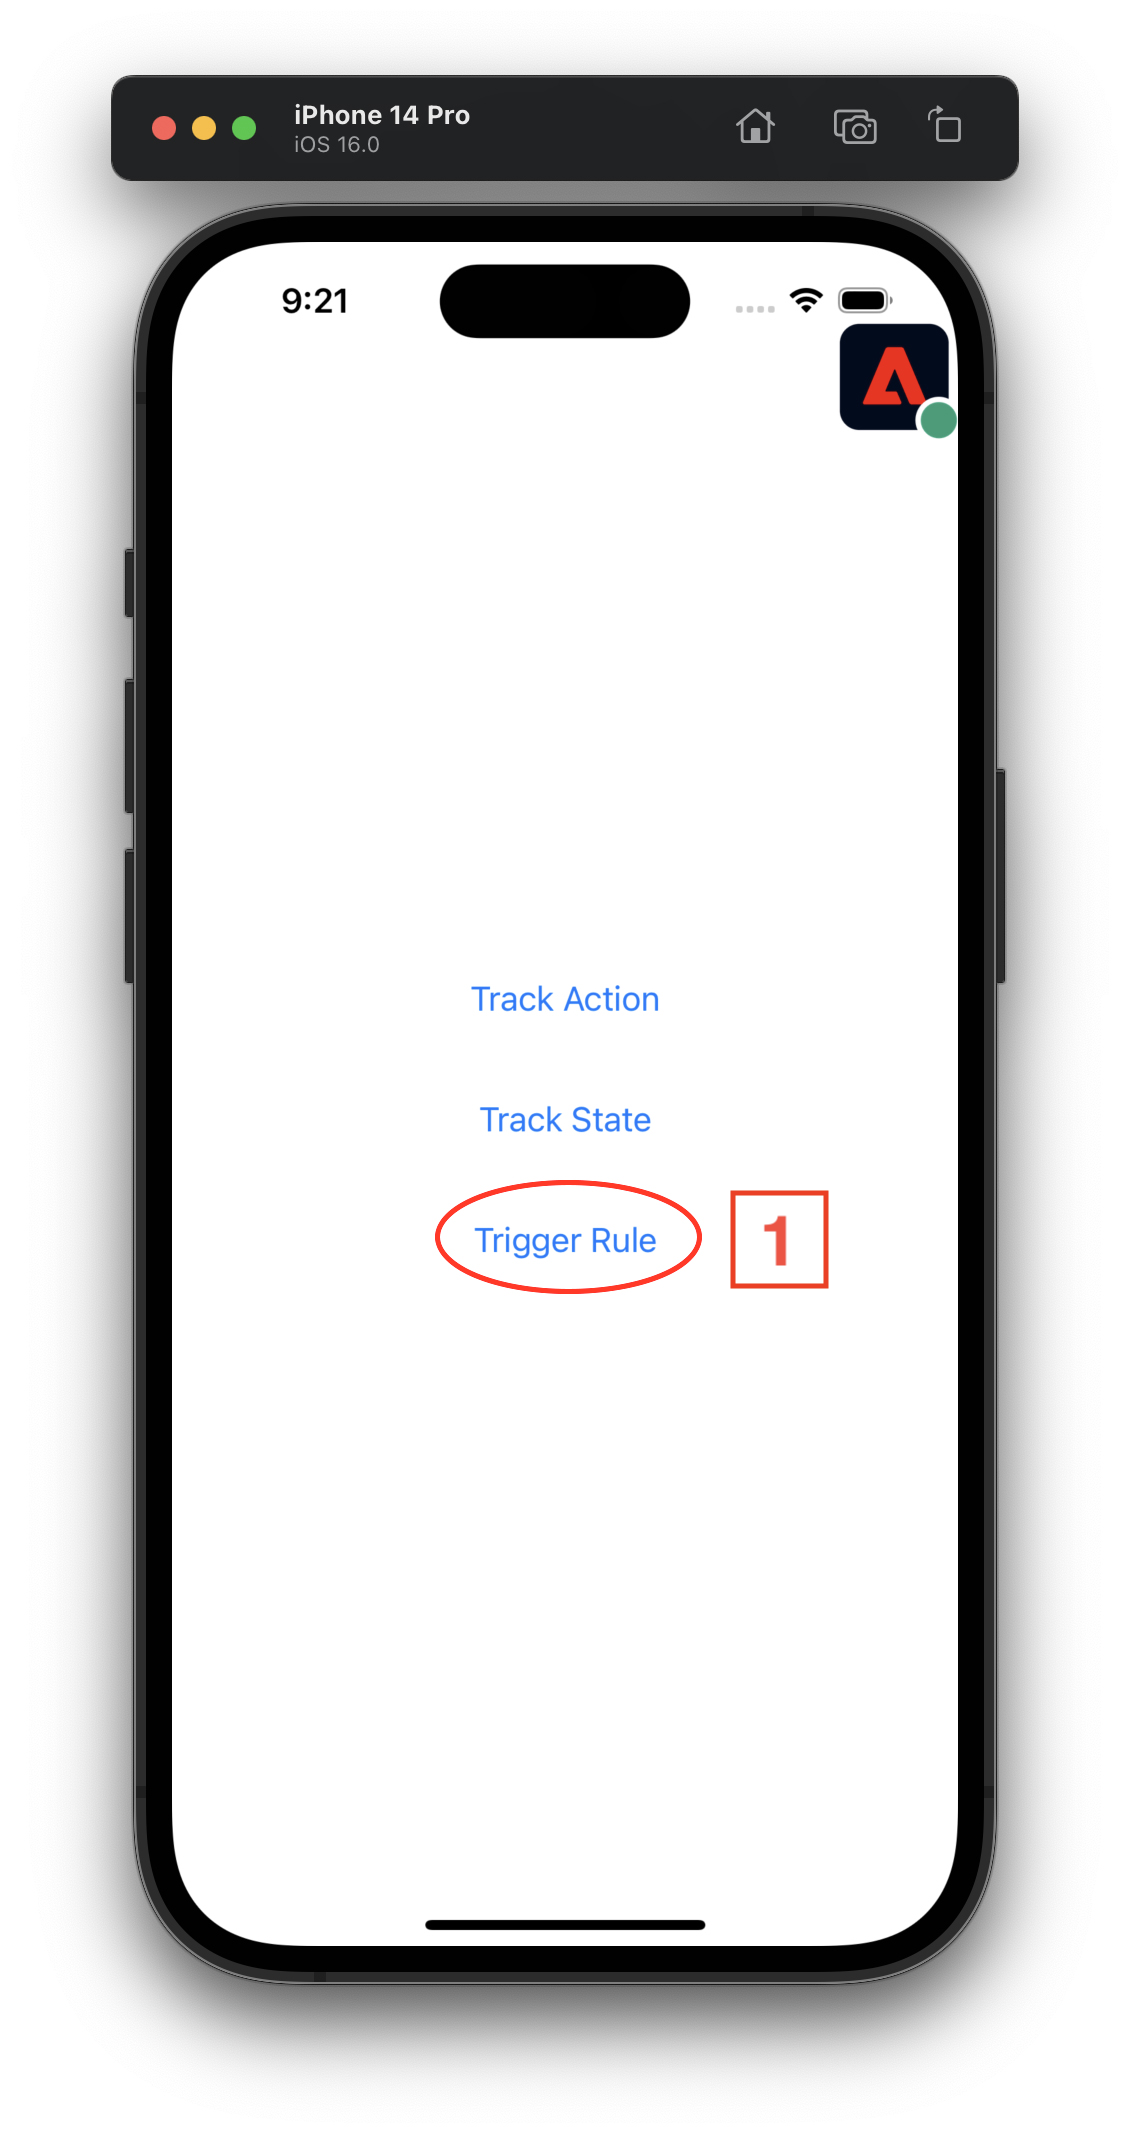
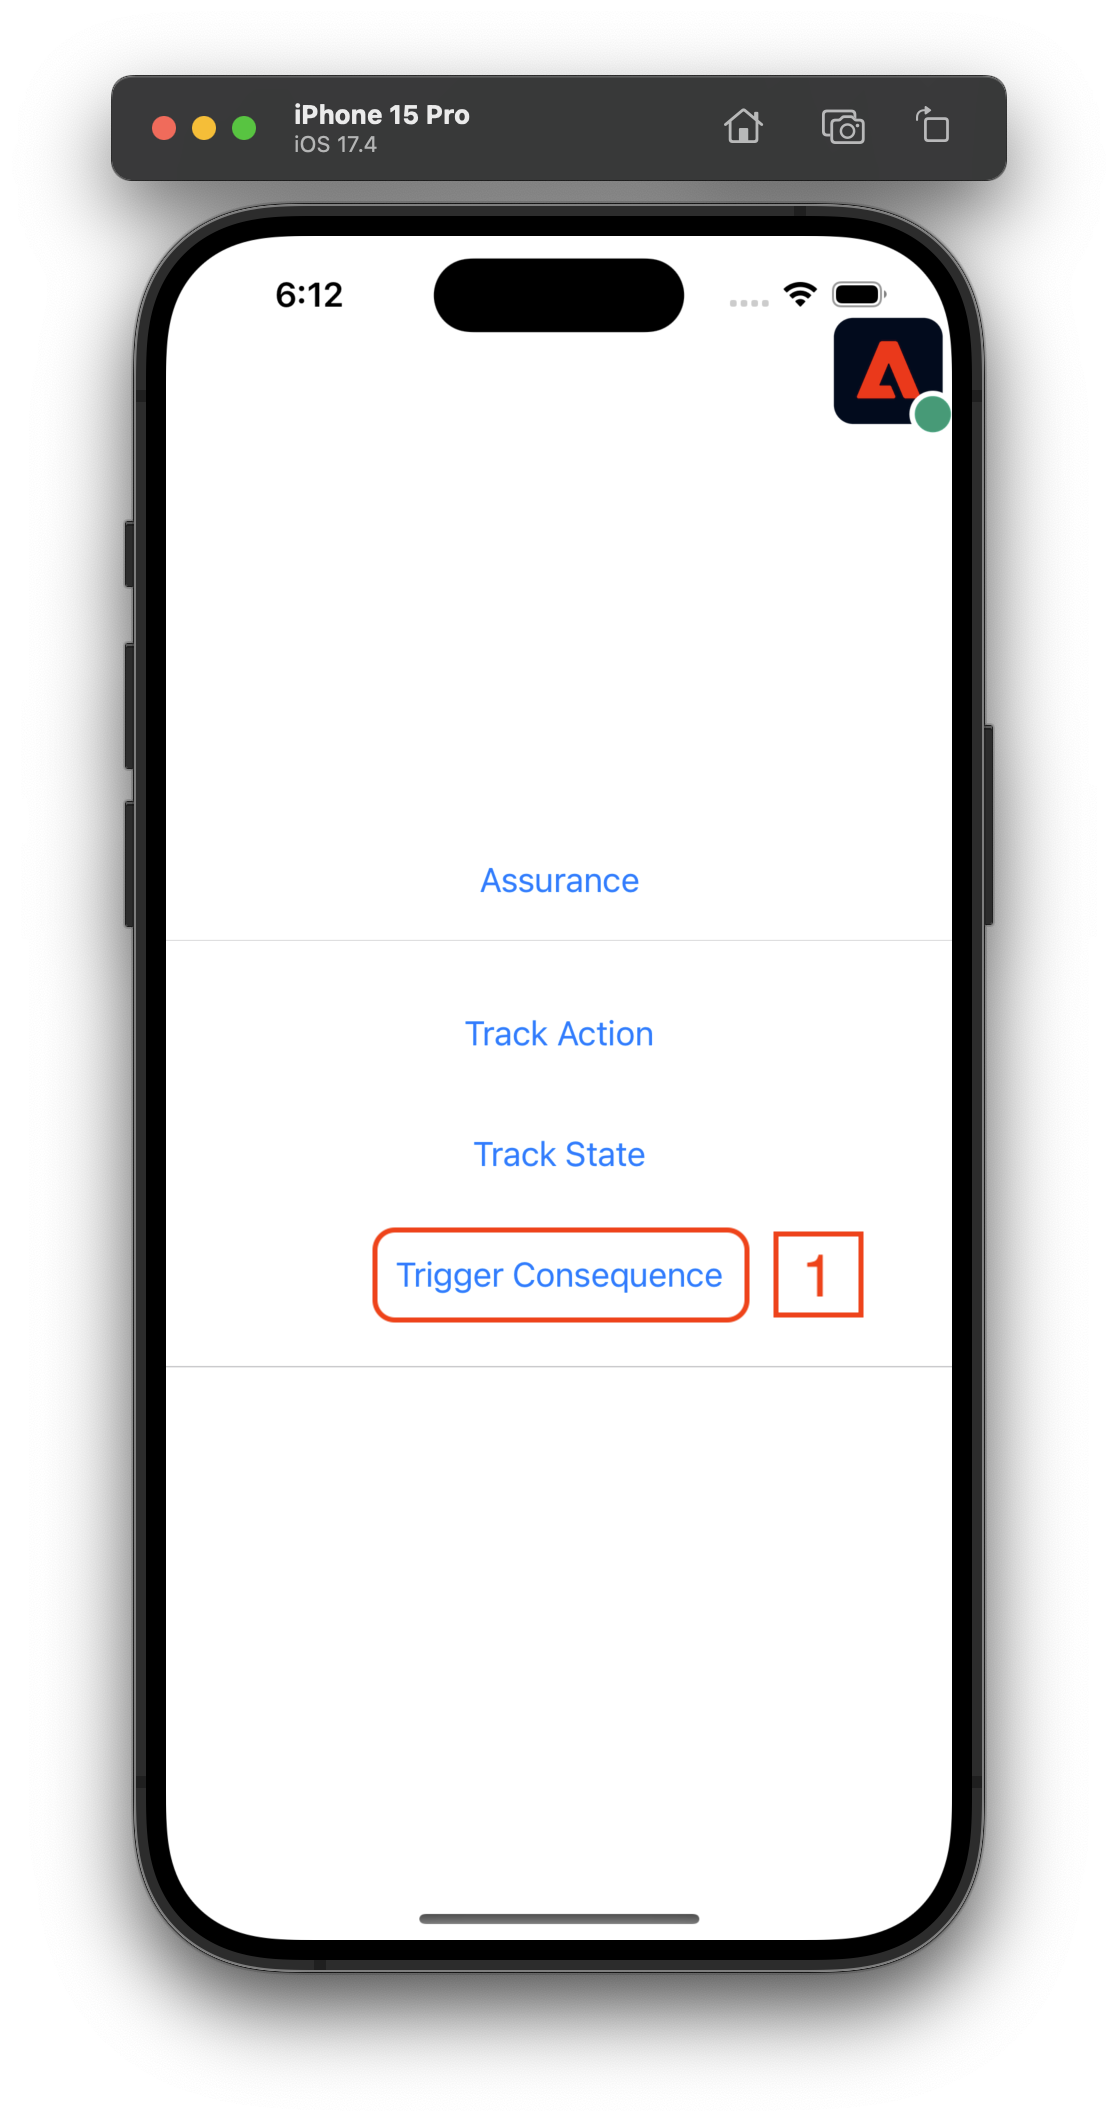
Update content to reflect new data format
Update image

diff --git a/Documentation/tutorials/edge-bridge-tutorial.md b/Documentation/tutorials/edge-bridge-tutorial.md
@@ -264,31 +264,40 @@ To view Edge Bridge events in the connected app instance:
 
 <img src="../assets/edge-bridge-tutorial/assurance-validation/ios-app-track-buttons.png" alt="Simulator tracking buttons" width="400"/>
 
-1. Select the **Analytics Track** event (**1**) in the events table to view the event details in the right side window.
+1. Select the **AnalyticsTrack** event (**1**) in the events table to view the event details in the right side window.
 2. Select the **RAW EVENT** dropdown (**2**) in the event details window to view the event data payload.
-3. Verify that the `contextData` matches what was sent by the Analytics `trackAction`/`trackState` API.
+3. Verify that the `contextdata` matches what was sent by the Analytics `trackAction`/`trackState` API.
 
 <img src="../assets/edge-bridge-tutorial/assurance-validation/assurance-analytics-track-event.png" alt="Assurance Analytics track event" width="800"/>
 
 1. Now click the `Edge Bridge Request` event (**1**) in the events table
 2. Click the `RAW EVENT` dropdown (**2**) in the event details window; notice the slight differences in the payload structure as a result of the `Edge Bridge Request` event conforming to the format of an Edge event.
 
+1. Now select the `Edge Bridge Request` event (**1**) in the events table.
+2. Select the `RAW EVENT` dropdown (**2**) in the event details window; observe the transformation of the payload structure with the help of the Edge Bridge extension. The `Edge Bridge Request` event conforms to the format of an Edge event.
+
 <img src="../assets/edge-bridge-tutorial/assurance-validation/assurance-edge-bridge-track-event.png" alt="Assurance Edge Bridge track event" width="800"/>
 
-Notice the differences in event data structure and format between the two types of events: Analytics (left) vs Edge (right) via Edge Bridge extension
-The top level EventType is converted from a `generic.track` to `edge` (that is, Analytics generic track event -> Edge event) (**1**). The Edge Bridge extension also populates the standard XDM field for event type (`eventType`) in the event data payload. Also notice that the `contextdata` has moved from directly under `EventData` to under the generic Edge XDM `data` property (**2**).
+The following table and diagram highlight the differences in event data structure and format between the two types of events: Analytics (left) vs Edge (right) when using the Edge Bridge extension:
+
+| Item | Before (Analytics) | After (Edge Bridge) |
+| --- | --- | --- |
+| 1 | Top level `ACPExtensionEventType`: `generic.track` | Top level `ACPExtensionEventType`: `edge`<br>`ACPExtensionEventData.xdm.eventType`: `analytics.track` |
+| 2 | `contextdata` key under `ACPExtensionEventData` | `contextData` transformed and moved under `data.__adobe.analytics` |
+| 3 | Keys with reserved prefix `&&` directly under `contextdata` | Keys with prefix `&&` transformed and moved under `data.__adobe.analytics` |
+| 4 | No Analytics metrics | Analytics metrics added under `data.__adobe.analytics` (varying locations) |
 
 <img src="../assets/edge-bridge-tutorial/assurance-validation/analytics-edge-bridge-conversion.png" alt="Comparison of event data between analytics and edge bridge events" width="1100"/>
 
-> **Note**
-> The two new top level properties `xdm` and `data` are standard Edge event properties that are part of the Edge platform's XDM schema-based system for event data organization that enables powerful, customizable data processing. However, because the `contextdata` is not yet mapped to an XDM schema, it is not in a usable form for the Edge platform. We will solve this issue by mapping the event data to an XDM schema in the next section.
+> [!NOTE]
+> The two new top-level properties `xdm` and `data` are standard Edge event properties, integral to the Experience Platform's XDM schema-based system for event data organization. This system allows for powerful, customizable data processing.
 
 #### Trigger rule-based `trackAction` events <!-- omit in toc -->
-Rules-based trackAction/trackState events are also converted to Edge events by the Edge Bridge extension. Select the **Trigger Rule** button (**1**) to trigger a rule that creates a trackAction event.
+Rule-based `trackAction`/`trackState` events are also converted to Edge events by the Edge Bridge extension. Select the **Trigger Consequence** button (**1**) to initiate a rule that generates a `trackAction` event.
 
 <img src="../assets/edge-bridge-tutorial/assurance-validation/ios-app-trigger-rule-button.png" alt="Simulator tracking buttons" width="400"/>
 
-Just like the `trackAction`/`trackState` events above, the Edge Bridge extension will convert the PII trackAction event into an Edge event.
+Just like the `trackAction`/`trackState` events above, the Edge Bridge extension converts the PII `trackAction` event into an Edge event.
 
 ## Data Prep mapping
 
